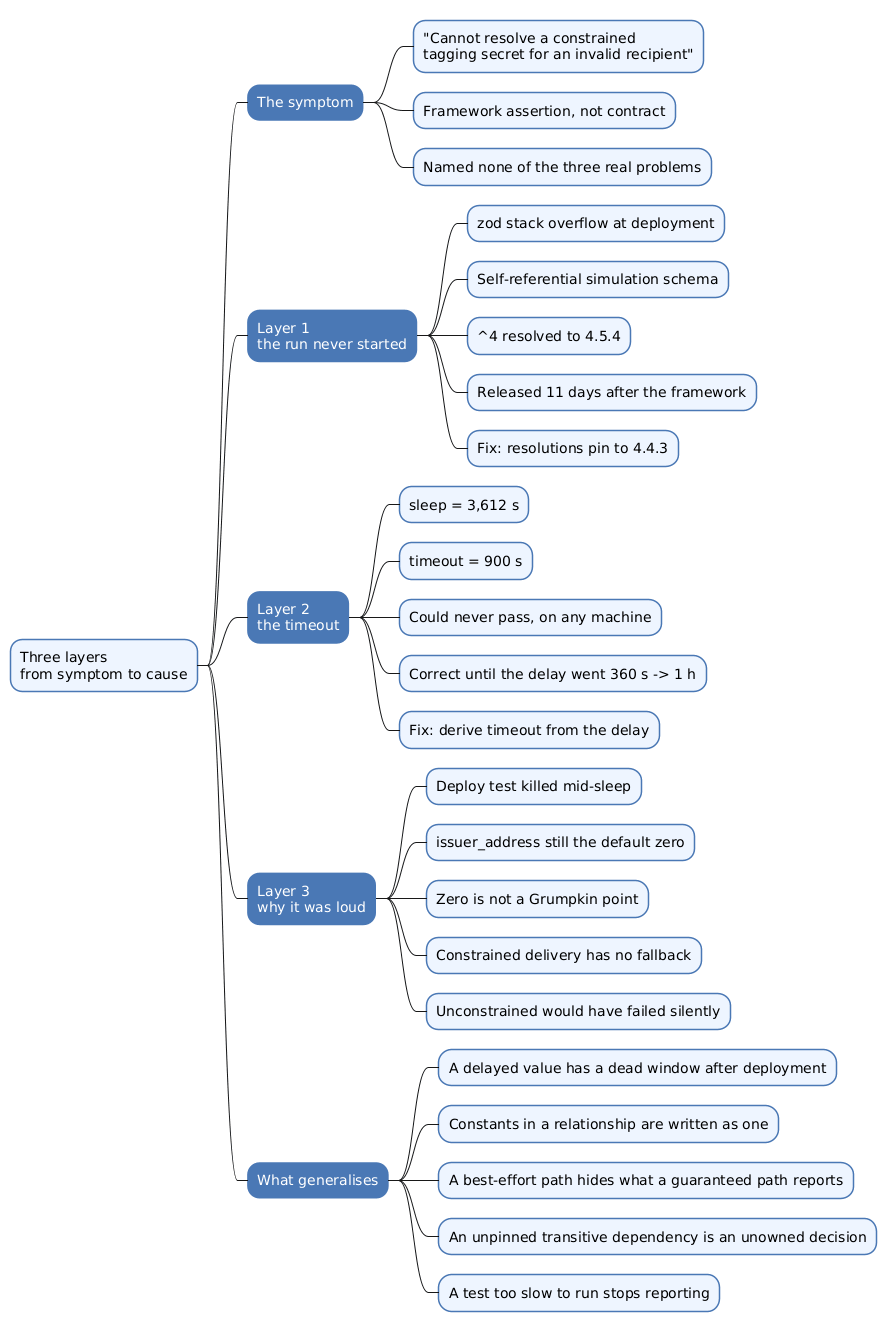
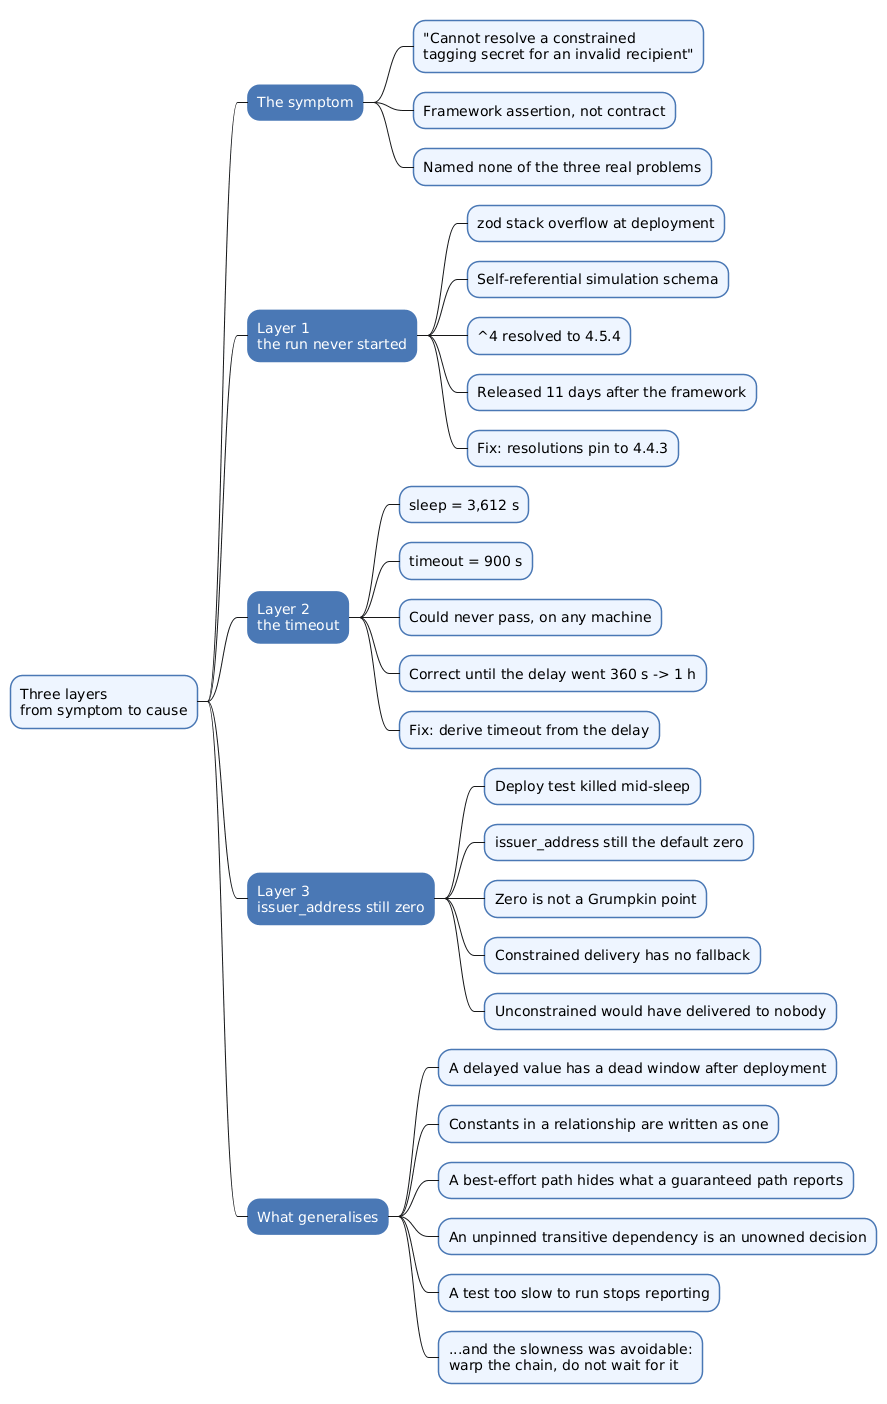
Update wording

Changed region(s): [[0.2435, 0.0, 1.0, 0.985], [0.0304, 0.4617, 0.1218, 0.5233], [0.1522, 0.4925, 0.2435, 0.5233]]

diff --git a/_posts/2026-09-23-aztec-e2e-test-failure-three-layers.md b/_posts/2026-09-23-aztec-e2e-test-failure-three-layers.md
@@ -33,9 +33,30 @@ The system under test is a privacy-preserving security token: balances are priva
 
 Three facts about it matter here, and each arrived as a separate, deliberate change:
 
-- **The issuer's address is a `DelayedPublicMutable`.** Every mint, transfer and burn reads it in private, and a value written to such a variable becomes current only after a configured delay. The constructor *schedules* it rather than writing it.
+- **The issuer's address is a `DelayedPublicMutable`.** Every mint, transfer and burn reads it in private, and a value written to such a variable becomes current only after a configured delay. The constructor *schedules* it rather than writing it:
+
+  ```rust
+  // storage
+  issuer_address: DelayedPublicMutable<AztecAddress, CHANGE_ROLES_DELAY_SECONDS, Context>,
+
+  // constructor
+  self.storage.issuer_address.schedule_value_change(admin);
+  ```
+
+  Until the delay elapses, a read returns the type's default. For an `AztecAddress` that default is zero, which matters later.
+
 - **The delay was raised from 360 seconds to one hour.** The old value was an order of magnitude below the framework's own recommendation, and it left a six-minute window in which a transaction had to be proved and included.
-- **The issuer's record of a mint became a constrained delivery.** Previously the issuer received only an offchain copy of each note, which a standard client cannot process at all; the fix was to also emit a `Transfer` event delivered with cryptographic guarantees.
+
+- **The issuer's record of a mint became a constrained delivery.** Previously the issuer received only an offchain copy of each note, which a standard client cannot process at all, so the mint also emits an event:
+
+  ```rust
+  self.emit(Transfer { from: AztecAddress::zero(), to, amount }).deliver_to(
+      issuer,           // read from issuer_address a few lines earlier
+      MessageDelivery::onchain_constrained(),
+  );
+  ```
+
+  An event has no owner and no nullifier, so any recipient's client can process it. `onchain_constrained` is what makes it an unforgeable receipt rather than a claim, and it is the line that turns a zero `issuer` from harmless into fatal.
 
 Each change was reviewed on its own terms. None of them was reviewed against the test suite's constants.
 
@@ -135,7 +156,7 @@ The fix is to derive one from the other, so the relationship is stated rather th
 const LONG_TEST_TIMEOUT = DELAY_MS + 600_000;
 ```
 
-## Layer three: why the failure was loud
+## Layer three: the issuer address was still zero
 
 Here the three changes meet. The deployment test was killed at 900 seconds, in the middle of a sleep that existed precisely so that the scheduled issuer address would become current. It never did. Every subsequent mint read `issuer_address` and got the type's default: the zero address.
 
@@ -151,7 +172,7 @@ So the chain is:
 
 What makes this worth writing down is step 3. Before the auditability change, the issuer received only an *offchain* copy of each note. Offchain delivery is unconstrained, so the same zero address took the `else` branch: a random secret, an undiscoverable tag, and a mint that succeeded while delivering the issuer's copy to nobody.
 
-The change that introduced constrained delivery did not create the bug. It converted a silent, wrong success into a loud, correct failure, and it did so in a code path nobody expected to be exercised, because nobody expected a mint during the first hour after deployment.
+The change that introduced constrained delivery did not create the bug. Before it, the mint completed and the issuer's copy went nowhere; after it, the transaction reverts at simulation with the assertion above. It changed a wrong result into an error, in a code path nobody expected to be exercised, because nobody expected a mint during the first hour after deployment.
 
 ## What generalises
 
@@ -162,11 +183,13 @@ Four points survive the specifics.
 - **A best-effort path hides the bug that a guaranteed path reports.** Unconstrained delivery's fallback is a reasonable design: a malformed recipient should not abort an otherwise valid transaction. The cost is that a wrong address produces no error until something upgrades that delivery to a guaranteed one.
 - **An unpinned transitive dependency is an unowned decision.** Nothing in the project changed between the run that worked and the run that did not; a library eleven days younger than the framework did.
 
-The last one also explains why the failure surfaced now rather than in the change that caused it. The suite had not been run since the delay was raised, because it takes over an hour of wall-clock time, most of it a single `sleep`. A test that is expensive enough to skip is a test that stops reporting.
+The last one also explains why the failure surfaced now rather than in the change that caused it. The suite had not been run since the delay was raised, because it took over an hour of wall-clock time, most of it a single `sleep`. A test that is expensive enough to skip is a test that stops reporting.
+
+And that `sleep` turned out to be unnecessary, which is the sharpest lesson of the four. A local network's L1 is an anvil instance, and the rollup exposes cheat codes that warp it: `RollupCheatCodes.advanceToSlot` moves L1 time and mines, an L2 slot derives from the L1 timestamp, and the clock a private function reads moves with it. One call clears a one-hour delay in seconds. The suite waited an hour not because the clock could not be moved, but because nobody had looked for the method that moves it, and a comment asserting the opposite was copied forward until it read as established fact.
 
 ## Conclusion
 
-The visible error named a cryptographic mechanism: a tagging secret that could not be resolved for a recipient the framework refused to encrypt to. That mechanism worked exactly as designed at every step. The defect was a test-harness constant that had been correct under a previous configuration, exposed by a delay change, and made fatal by an unrelated auditability change that removed a silent fallback.
+The visible error named a cryptographic mechanism: a tagging secret that could not be resolved for a recipient the framework refused to encrypt to. That mechanism worked exactly as designed at every step. The defect was a test-harness constant that had been correct under a previous configuration, exposed by a delay change, and made fatal by an unrelated auditability change that replaced a best-effort fallback with a guarantee the address could not meet.
 
 - **The dependency failure was independent** and merely first: an unpinned transitive library, eleven days newer than the framework it serves, broke deployment before any contract logic ran.
 - **The timeout was the defect**, and the only one of the three that was ever wrong.
@@ -187,9 +210,9 @@ The visible error named a cryptographic mechanism: a tagging secret that could n
 | **`DelayedPublicMutable`** | A public state variable whose writes take effect only after a configured delay, which is what makes it readable from a private function. |
 | **Grumpkin** | The elliptic curve Aztec addresses and keys live on, chosen because its arithmetic is native inside the proof system's field. |
 | **Valid address** | An address whose value is the x-coordinate of a real point on Grumpkin; roughly half of all field elements are not, and no shared secret can be derived for those. |
-| **Anchor block** | The historical block a private execution is proved against, and the point from which a transaction's expiry is measured. |
 | **Transitive dependency** | A library a project does not import but receives through one of its dependencies, and whose version the project therefore does not choose unless it pins it. |
 | **`resolutions`** | A package-manager field that forces a version of a package anywhere in the dependency tree, including copies the project never imports directly. |
+| **Cheat codes** | Test-only methods a local network exposes for manipulating chain state, including warping L1 time so that a delay elapses without waiting. |
 
 ### Integration Notes
 
@@ -198,7 +221,7 @@ The visible error named a cryptographic mechanism: a tagging secret that could n
 | A constructor that *schedules* a delayed value leaves it at the type default until the delay elapses. | Treat the first delay after deployment as a window in which value-moving entry points are unavailable, and sequence deployment scripts accordingly. |
 | Constrained delivery to an address that is not a curve point aborts the transaction. | Validate any configurable recipient address before it can reach a constrained delivery, rather than relying on the send to succeed. |
 | Unconstrained and offchain delivery to the same invalid address succeed silently. | Do not infer from a successful send that a recipient received anything; a delivery guarantee exists only in constrained mode. |
-| A test that waits out a real delay cannot be given a fixed timeout. | Derive the timeout from the delay constant, and re-check it whenever the protocol-level delay changes. |
+| A test that waits out a real delay cannot be given a fixed timeout. | Move the chain's clock instead, with the rollup's cheat codes, and keep the wait only as a fallback for real networks; where a wait remains, derive the timeout from the delay constant. |
 | Framework packages declare caret ranges on their own dependencies. | Pin the transitive versions that the framework release was built against, and re-check the pins when upgrading the framework. |
 
 ## Frequently Asked Questions
@@ -227,12 +250,15 @@ Five framework packages declare their dependency on the validation library as `^
 
 **Q: Would running the test suite more often have caught this earlier?**
 
-Yes, and that is the practical lesson. The suite waits out a real delay, so a full run takes over an hour, most of it a single sleep. It was therefore skipped after the delay change, and a test that is expensive enough to skip stops reporting. The structural answer is to keep the fast suite in continuous integration and to run the slow one on a schedule rather than on demand.
+Yes, and that is the practical lesson. The suite waited out a real delay, so a full run took over an hour, most of it a single sleep. It was therefore skipped after the delay change, and a test that is expensive enough to skip stops reporting.
+
+The better answer, though, is to remove the reason it was slow. The wait was avoidable: a local network's L1 is anvil, and warping it through the rollup's cheat codes clears a one-hour delay in seconds, so the suite now runs in minutes. Keeping the fast suite in continuous integration remains worthwhile, but a slow test is worth interrogating before it is scheduled around.
 
 ## References
 
 ### Analyzed source
 
+- [CMTA/private-CMTAT-aztec](https://github.com/CMTA/private-CMTAT-aztec/) — the token and the test suite described here, analyzed at commit [`cb6111a87f21317c6d3ab226edb80d8b297e4923`](https://github.com/CMTA/private-CMTAT-aztec/tree/cb6111a87f21317c6d3ab226edb80d8b297e4923), 2026-09-23. The quoted storage declaration and constructor are in `contracts/cmtat-aztec/src/main.nr`; the test constants are in `src/test/e2e/index.test.ts`.
 - [AztecProtocol/aztec-nr](https://github.com/AztecProtocol/aztec-nr) — framework sources read at tag [`v5.2.0`](https://github.com/AztecProtocol/aztec-nr/tree/v5.2.0), 2026-09-23. The assertion is in `aztec/src/oracle/resolve_tagging_strategy.nr`; the address validity check is in the protocol-circuit types, `address/aztec_address.nr`.
 
 ### Documentation and libraries
